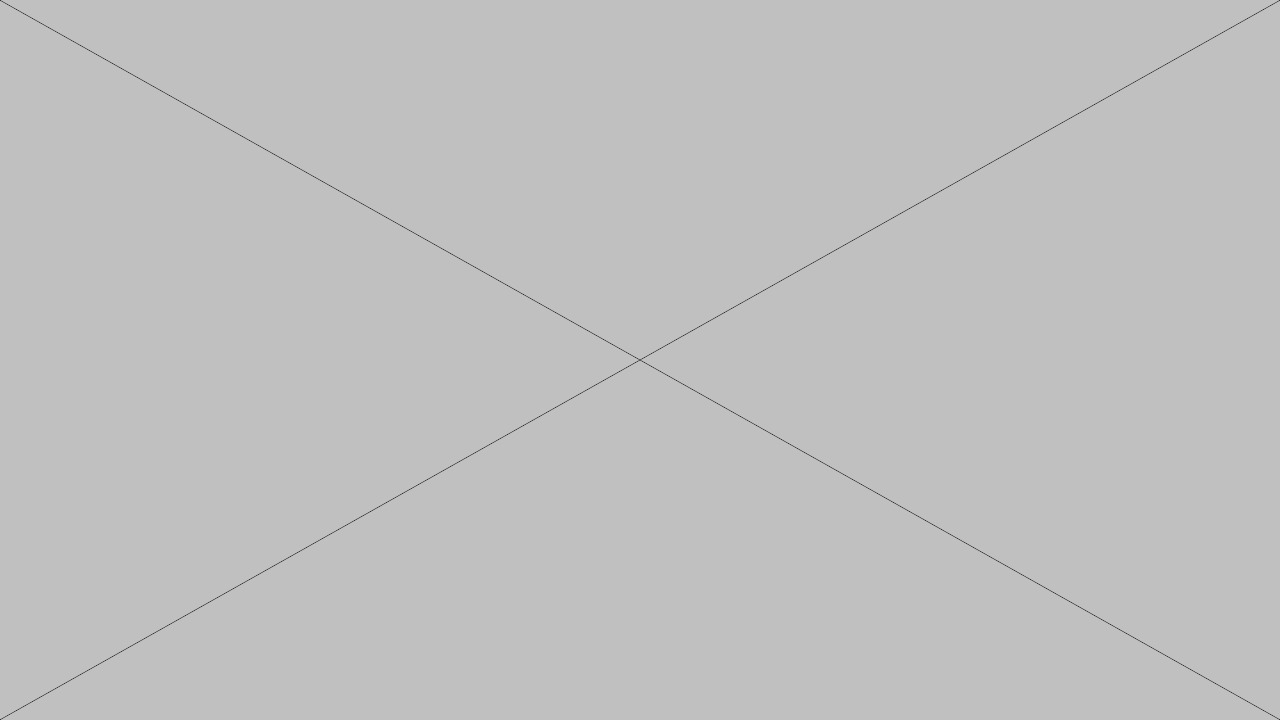
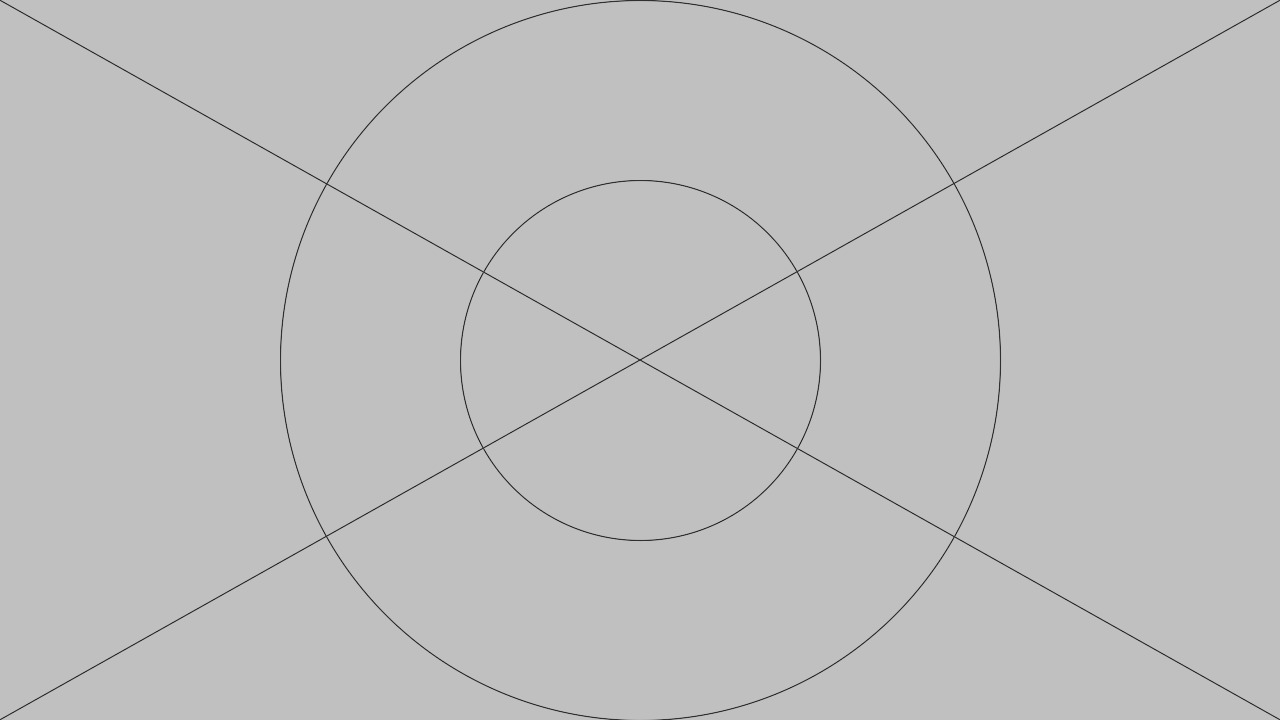
updated samples

Changed region(s): [[0.5312, 0.9778, 0.5625, 1.0], [0.4375, 0.9778, 0.4688, 1.0], [0.25, 0.2444, 0.2812, 0.275]]

diff --git a/samples/make-samples.js b/samples/make-samples.js
@@ -23,7 +23,10 @@ function makeVersions(next) {
 		var h = v.height;
 		var cmd = '';
 		cmd += 'gm convert -size ' + w + 'x' + h + ' xc:#c0c0c0';
-		cmd += ' -fill "#303030" -draw "line 0,0 ' + (w - 1) + ',' + (h - 1) + ' line 0,' + (h - 1) + ' ' + (w - 1) + ',0"';
+		cmd += ' -fill "#c0c0c0" -stroke "#303030" '
+		cmd += ' -draw "circle ' + w / 2 + ', ' + h / 2 + ', ' + w / 2 + ', 0"';
+		cmd += ' -draw "circle ' + w / 2 + ', ' + h / 2 + ', ' + w / 2 + ', ' + h / 4 + '"';
+		cmd += ' -draw "line 0,0 ' + (w - 1) + ',' + (h - 1) + ' line 0,' + (h - 1) + ' ' + (w - 1) + ',0"';
 		cmd += ' -quality 92 ' + w + 'x' + h + '-' + v.postfix + '.jpg';
 		console.log(cmd);
 		exec(cmd, function (err) {
